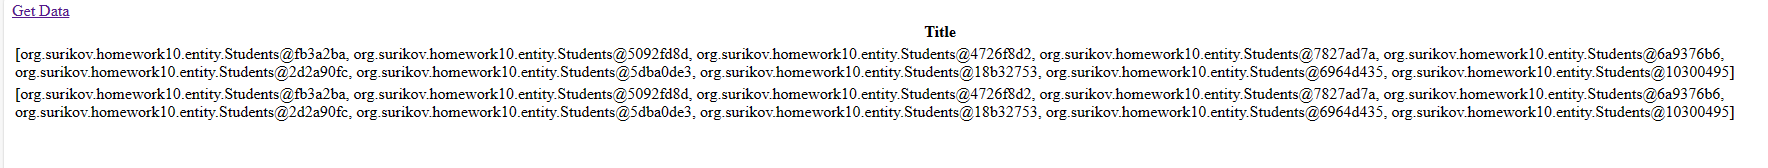
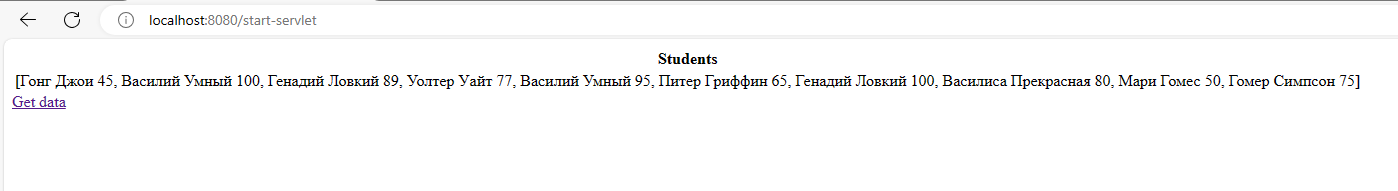
Fix bugs

diff --git a/src/main/java/org/surikov/homework10/entity/Students.java b/src/main/java/org/surikov/homework10/entity/Students.java
@@ -18,4 +18,41 @@ public class Students {
         this.lastname = lastname;
         this.evaluation = evaluation;
     }
+
+    public int getId() {
+        return id;
+    }
+
+    public void setId(int id) {
+        this.id = id;
+    }
+
+    public String getFirstname() {
+        return firstname;
+    }
+
+    public void setFirstname(String firstname) {
+        this.firstname = firstname;
+    }
+
+    public String getLastname() {
+        return lastname;
+    }
+
+    public void setLastname(String lastname) {
+        this.lastname = lastname;
+    }
+
+    public int getEvaluation() {
+        return evaluation;
+    }
+
+    public void setEvaluation(int evaluation) {
+        this.evaluation = evaluation;
+    }
+
+    @Override
+    public String toString() {
+        return firstname + " " + lastname + " " + evaluation;
+    }
 }

diff --git a/src/main/java/org/surikov/homework10/servlets/StartServlet.java b/src/main/java/org/surikov/homework10/servlets/StartServlet.java
@@ -7,15 +7,16 @@ import jakarta.servlet.http.HttpServletRequest;
 import jakarta.servlet.http.HttpServletResponse;
 import org.surikov.homework10.dao.Dao;
 import org.surikov.homework10.entity.Students;
-import org.surikov.homework10.service.StudentService;
 
 import java.io.IOException;
+import java.util.List;
 
 @WebServlet("/start-servlet")
 public class StartServlet extends HttpServlet {
     @Override
     protected void doGet(HttpServletRequest req, HttpServletResponse resp) throws ServletException, IOException {
-        req.setAttribute("students",Dao.select());
+        List<Students> studentsList = Dao.select();
+        req.setAttribute("students",studentsList);
         req.getRequestDispatcher("index.jsp").forward(req,resp);
     }
 }

diff --git a/src/main/java/org/surikov/homework10/dao/Dao.java b/src/main/java/org/surikov/homework10/dao/Dao.java
@@ -12,9 +12,11 @@ import java.util.List;
 public class Dao {
 
     public static List<Students> select(){
+
         String query = "SELECT DISTINCT(evaluation), students.firstname, students.lastname FROM students";
         ResultSet resultSet;
         List<Students> studentsList = new ArrayList<>();
+
         try(Connection connection = DBManager.createConnection();
         PreparedStatement preparedStatement = connection.prepareStatement(query)) {
             resultSet = preparedStatement.executeQuery();

diff --git a/src/main/java/org/surikov/homework10/dao/DBManager.java b/src/main/java/org/surikov/homework10/dao/DBManager.java
@@ -1,7 +1,6 @@
 package org.surikov.homework10.dao;
 
 import org.postgresql.Driver;
-
 import java.io.IOException;
 import java.io.InputStream;
 import java.sql.Connection;

diff --git a/README.MD b/README.MD
@@ -1,3 +1,19 @@
 # Домашняя работа 
-Работа в процессе. Пока получаю
-данные![img.png](img.png)
+Получаю уникальные значения из базы данных - по оценкам.  
+
+Данные от БД:  
+Логин: admin  
+Пароль: admin
+
+Есть файл init.sql - для создания и заполнения базы данных
+
+### Комментарий
+Домашнее задание готово, осталось внести небольшие изменения.  
+
+Видимо из-за того, что значения передаются как массив, я не могу перебрать его так как 
+для передачи данных пользуюсь EL. Поэтому вывел данные через метод toString. 
+Сделал это в том числе и для того, чтобы убедиться в правильности получения данных.  
+
+Пока получаю данные в таком формате: 
+
+![img.png](img.png)
